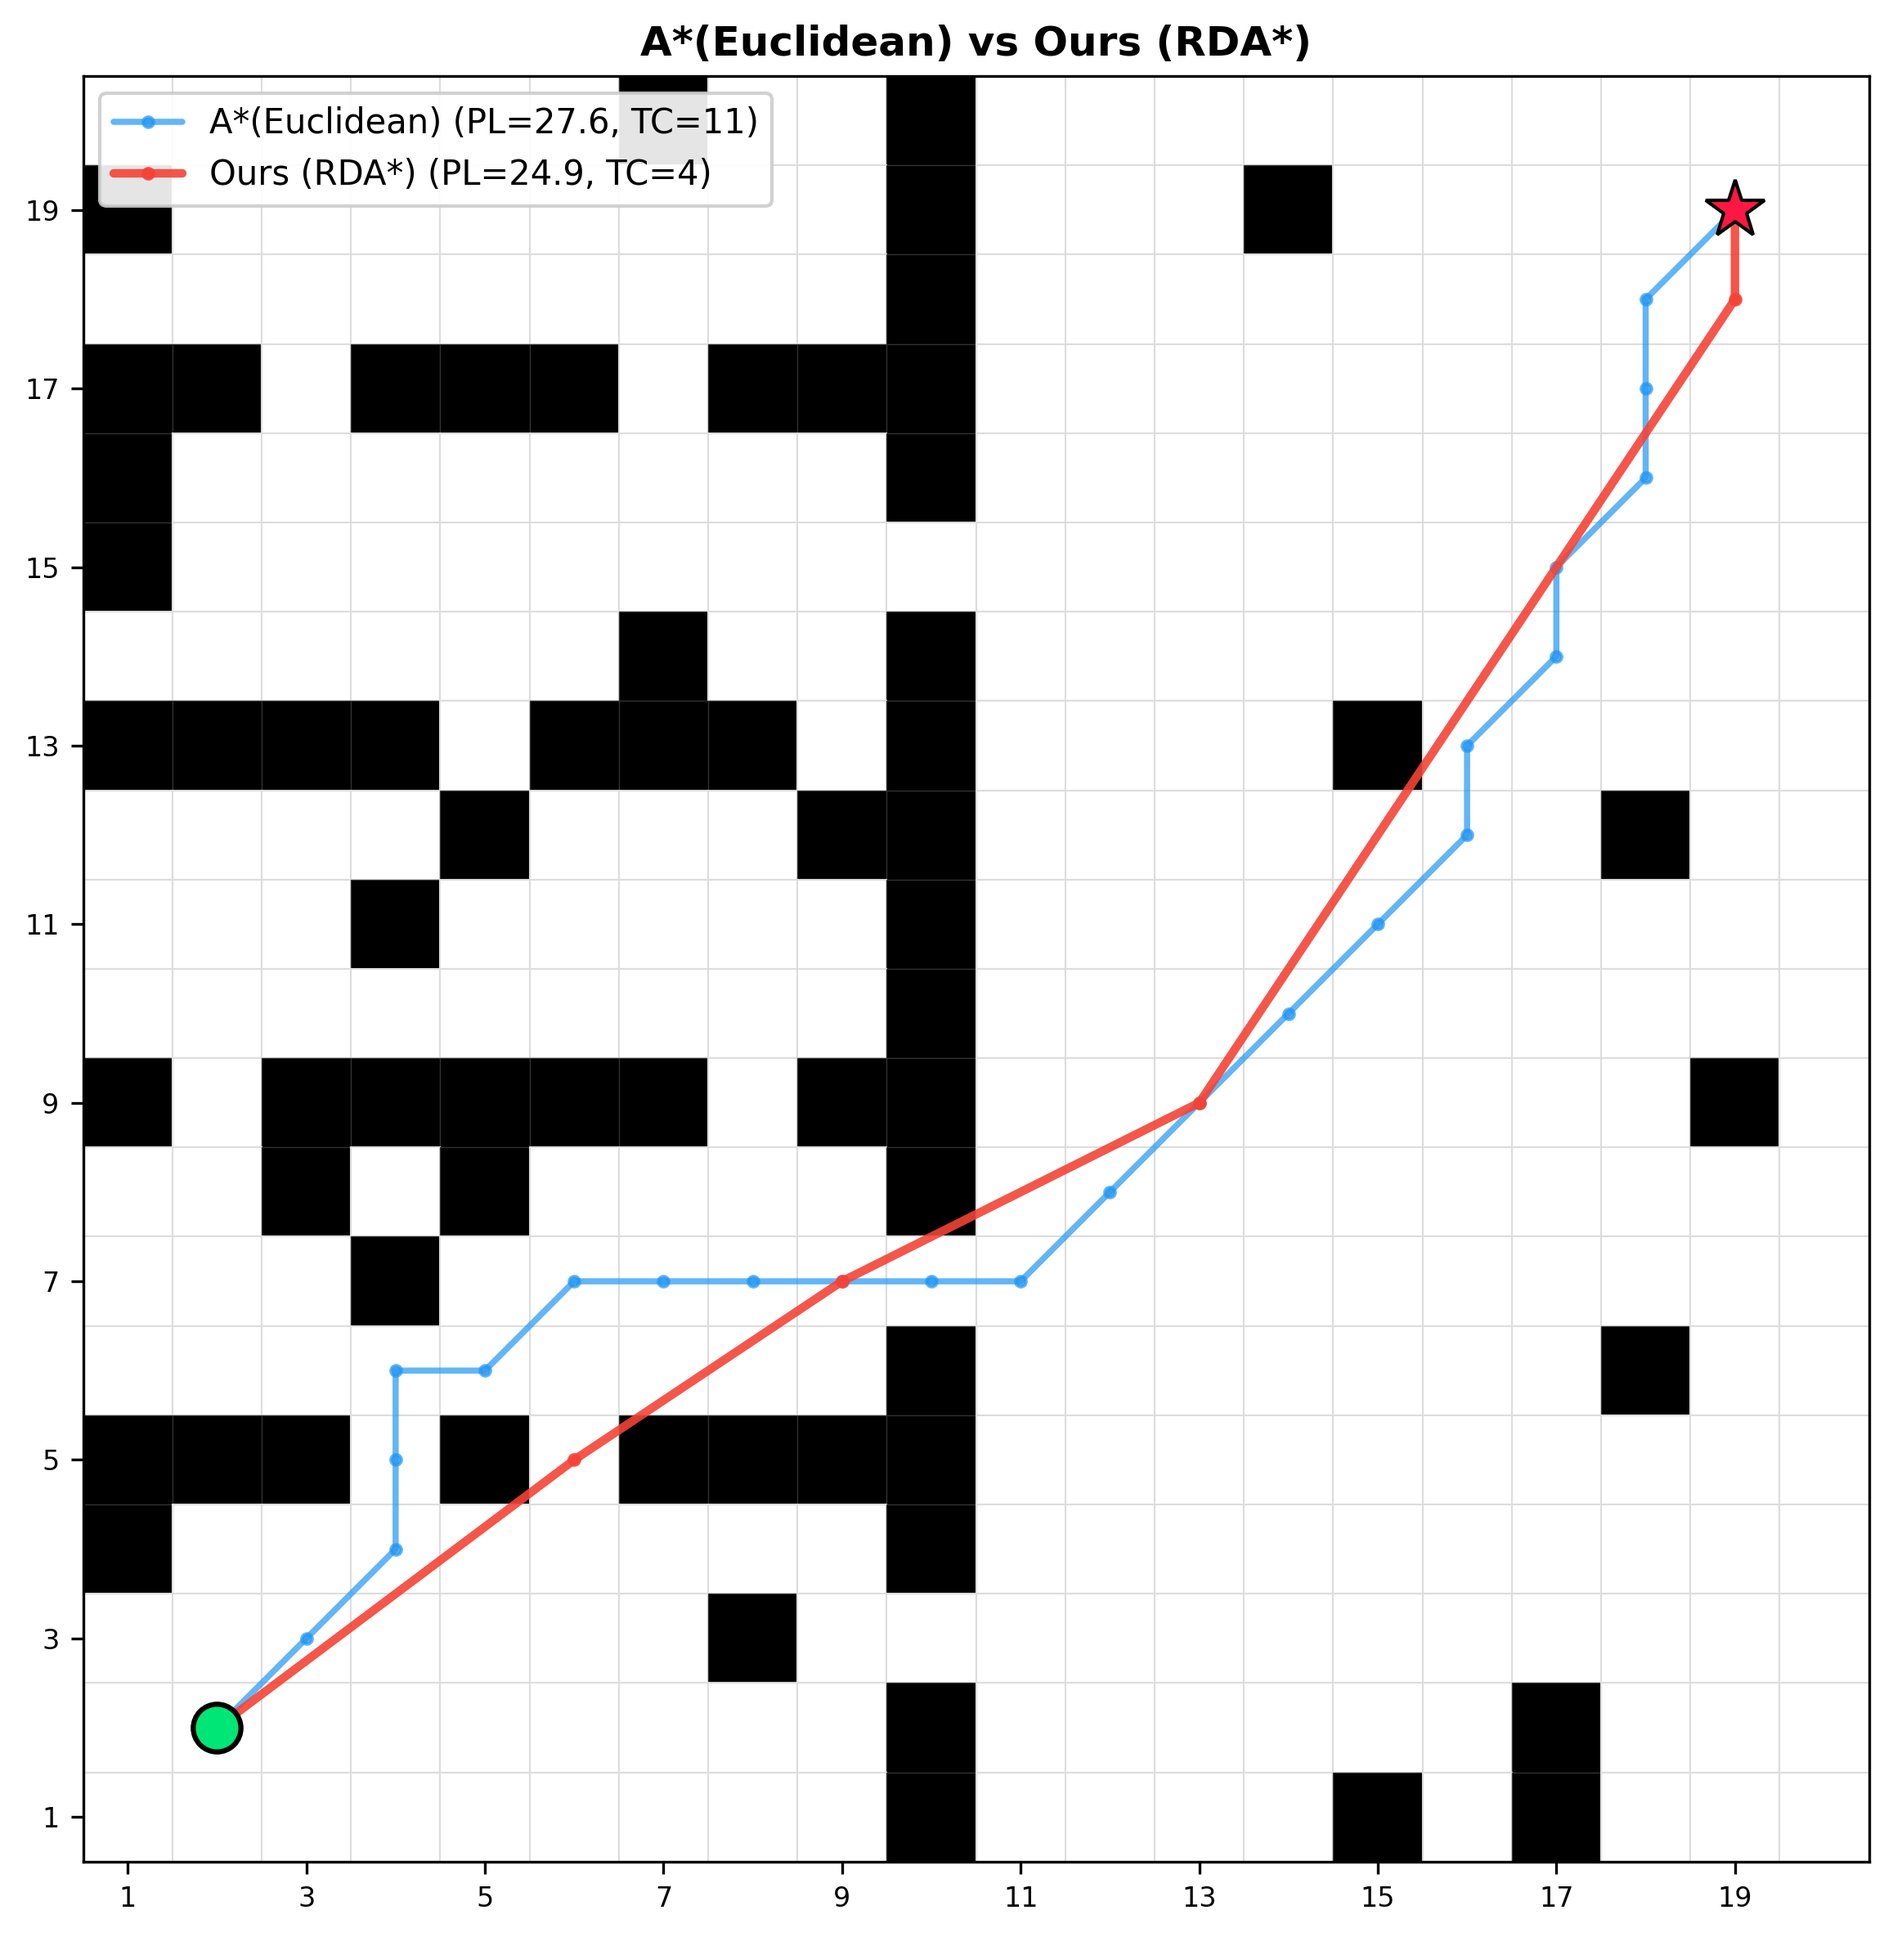
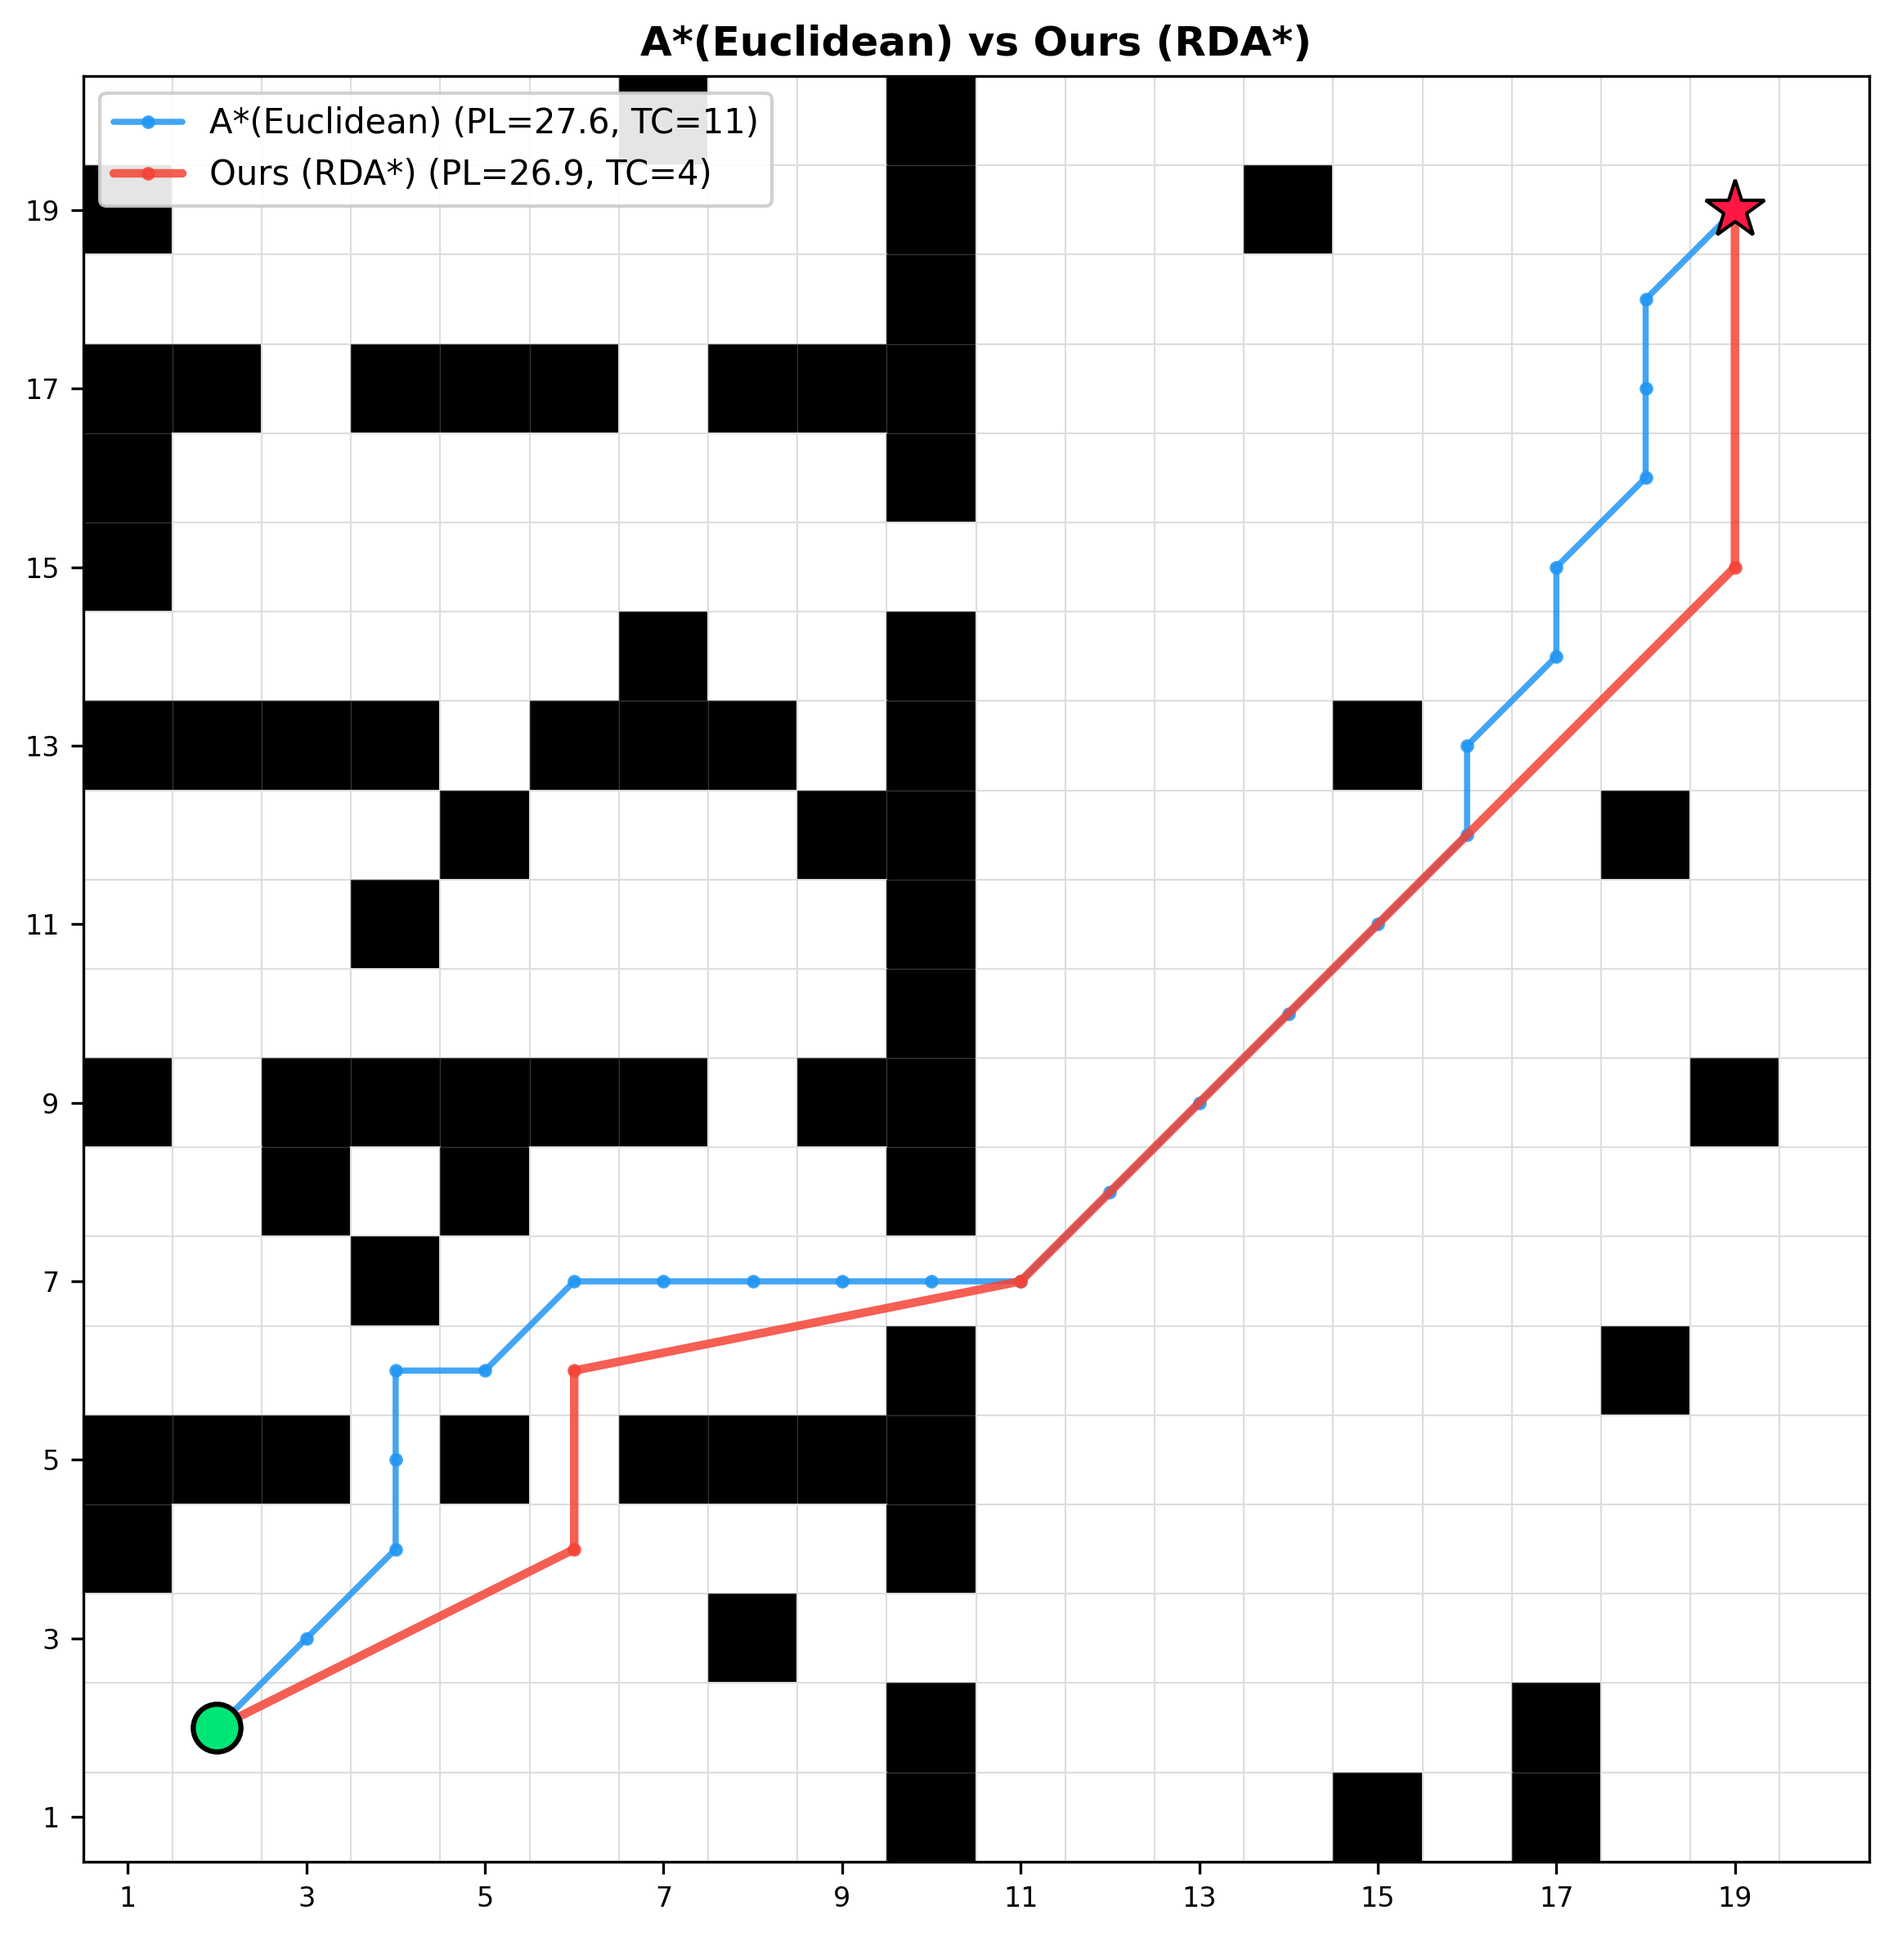
fix(core): line_of_sight 从 Bresenham 升级为 supercover
BUG: 旧 Bresenham 只检查离散光栅化路径上的格子，
     连续直线可能穿过 Bresenham 未访问的障碍格。
     导致 simplify_path 误删中间点，平滑后路径视觉上穿墙。

FIX: 对角步进时额外检查两个正交邻居（与 neighbors8 anti-tunneling 一致）。
     确保连续直线扫过的所有格子都被检查。

验证:
- Octile A* vs MovingAI optimal: 10/10 仍精确匹配（搜索不受影响）
- 20×20 demo: 7条旧版误放行的段被新版正确拒绝
- 全部6种算法路径重新生成，supercover LOS 验证通过

⚠ 影响: exp_v1 实验数据中含平滑的算法（improved_ours, ablation_no_adapt）
   路径可能变化，需要重跑。

diff --git a/code/planners/core.py b/code/planners/core.py
@@ -98,11 +98,21 @@ def turn_count(path: List[Point]) -> int:
 
 
 # ---------------------------------------------------------------------------
-# Line-of-sight (Bresenham) for path smoothing
+# Line-of-sight (supercover) for path smoothing
 # ---------------------------------------------------------------------------
 
 def line_of_sight(grid: np.ndarray, p1: Point, p2: Point) -> bool:
-    """Bresenham line check: returns True if no obstacle between p1 and p2."""
+    """
+    Supercover line-of-sight check.
+    
+    Unlike basic Bresenham which only visits the thinnest discrete path,
+    this checks ALL cells the continuous line segment passes through.
+    When a diagonal crossing occurs, both orthogonal neighbors are checked
+    (same anti-tunneling logic as neighbors8).
+    
+    This ensures that if matplotlib draws a straight line between two points,
+    no obstacle cell is visually or physically crossed.
+    """
     x0, y0 = p1
     x1, y1 = p2
     dx = abs(x1 - x0)
@@ -112,17 +122,38 @@ def line_of_sight(grid: np.ndarray, p1: Point, p2: Point) -> bool:
     err = dx - dy
 
     while True:
+        # Bounds check
+        if not (0 <= x0 < grid.shape[0] and 0 <= y0 < grid.shape[1]):
+            return False
         if grid[x0, y0] == 1:
             return False
         if (x0, y0) == (x1, y1):
             break
+
         e2 = 2 * err
-        if e2 > -dy:
+
+        if e2 > -dy and e2 < dx:
+            # Diagonal step: the continuous line crosses into a diagonal cell.
+            # It must pass through at least one of the two orthogonal neighbors.
+            # Block if either neighbor is an obstacle (conservative, consistent
+            # with OnlyWhenNoObstacles anti-tunneling rule).
+            nx, ny = x0 + sx, y0 + sy
+            if not (0 <= nx < grid.shape[0] and 0 <= ny < grid.shape[1]):
+                return False
+            if grid[x0 + sx, y0] == 1 or grid[x0, y0 + sy] == 1:
+                return False
+            err = err - dy + dx
+            x0 += sx
+            y0 += sy
+        elif e2 > -dy:
+            # Horizontal step only
             err -= dy
             x0 += sx
-        if e2 < dx:
+        else:
+            # Vertical step only
             err += dx
             y0 += sy
+
     return True
 
 
